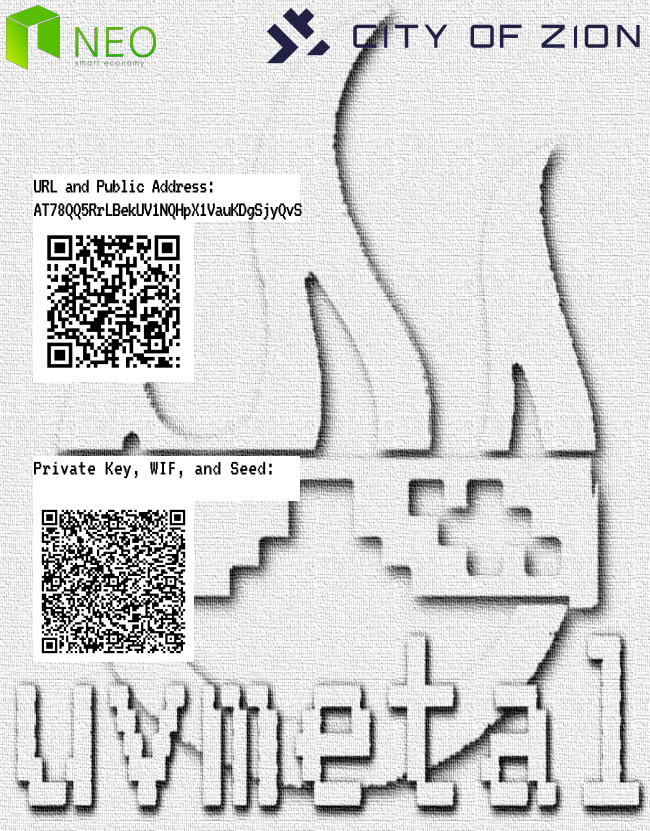
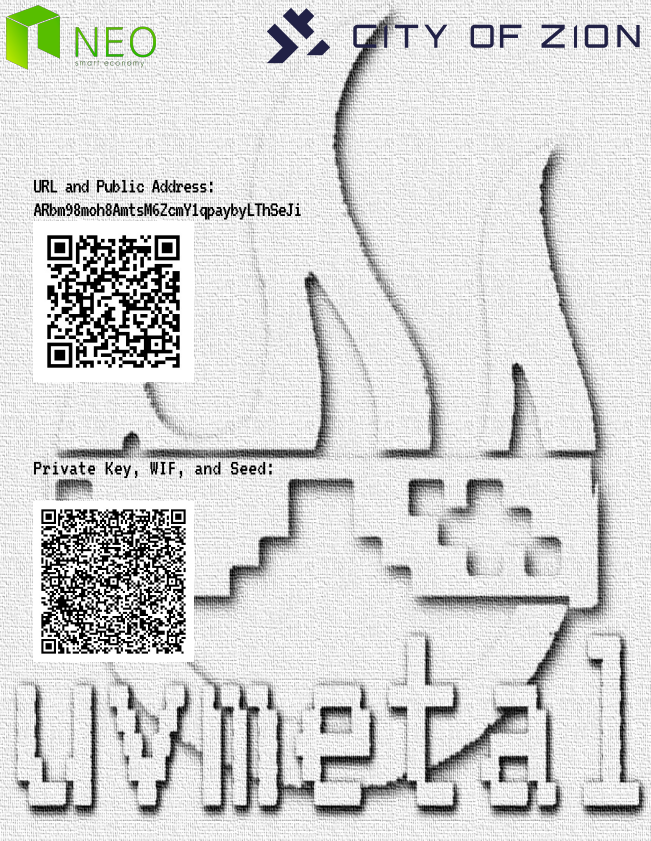
remove background highlight

diff --git a/template.html b/template.html
@@ -28,7 +28,7 @@
 
     <div class="" style="position:absolute;z-index:1;left: 33px;top: 100px;width:250px;height:150px;font-size: 21px;letter-spacing: -1;">
         <br><br><br>
-        <div style="background-color:#ffffff;">URL and Public Address: **PUBLIC**</div>
+        <div style="">URL and Public Address: **PUBLIC**</div>
 
 
         <img src="./public.png"
@@ -38,7 +38,7 @@
 
     <div class="" style="position:absolute;left:33px;top:430px;width:250px;height:250px;" >
 
-        <div style="background-color:#ffffff;font-family:'VT323',margin-top:0px;font-size:21px;padding-bottom:20px" >
+        <div style="font-family:'VT323',margin-top:0px;font-size:21px;padding-bottom:20px" >
             Private Key, WIF, and Seed:
         </div>
 
